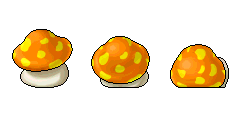
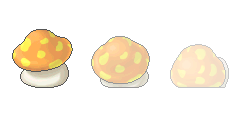
- Added HPs and a way to be damaged to all characters
- Also fixed some die.png spritesheets to have gradually transparency.
- Also removed the ExplodesFromEnemy class because that effect will be implemented in a different class

diff --git a/project/core/src/com/survivors/mygame/CharacterData.java b/project/core/src/com/survivors/mygame/CharacterData.java
@@ -28,6 +28,7 @@ public class CharacterData {
     private int dimensionX;
     private int dimensionY;
     private String internalName = "";
+    private int maxHp;
     private int totalFrameCount;
     private int dyingAnimationStartFrameIndex;
     private int dyingAnimationEndFrameIndex;
@@ -57,6 +58,7 @@ public class CharacterData {
                 this.originY = 62;
                 this.dimensionX = 188;
                 this.dimensionY = 86;
+                this.maxHp = 1000;
                 break;
             case PLANT:
                 this.internalName = "plant";
@@ -67,6 +69,7 @@ public class CharacterData {
                 this.originY = 103;
                 this.dimensionX = 252;
                 this.dimensionY = 134;
+                this.maxHp = 1800;
                 break;
             case STUMP:
                 this.internalName = "stump";
@@ -77,6 +80,7 @@ public class CharacterData {
                 this.originY = 130;
                 this.dimensionX = 126;
                 this.dimensionY = 167;
+                this.maxHp = 7000;
                 break;
             case PIG:
                 this.internalName = "pig";
@@ -87,6 +91,7 @@ public class CharacterData {
                 this.originY = 74;
                 this.dimensionX = 96;
                 this.dimensionY = 108;
+                this.maxHp = 3200;
                 break;
             case ORANGE_MUSHROOM:
                 this.internalName = "orange mushroom";
@@ -97,6 +102,7 @@ public class CharacterData {
                 this.originY = 88;
                 this.dimensionX = 81;
                 this.dimensionY = 121;
+                this.maxHp = 5500;
                 break;
             case BLUE_MUSHROOM:
                 this.internalName = "blue mushroom";
@@ -107,6 +113,7 @@ public class CharacterData {
                 this.originY = 126;
                 this.dimensionX = 242;
                 this.dimensionY = 194;
+                this.maxHp = 11000;
                 break;
             case ZOMBIE_MUSHROOM:
                 this.internalName = "zombie mushroom";
@@ -117,6 +124,7 @@ public class CharacterData {
                 this.originY = 106;
                 this.dimensionX = 80;
                 this.dimensionY = 157;
+                this.maxHp = 20000;
                 break;
             case HELMET_PENGUIN:
                 this.internalName = "helmet penguin";
@@ -127,6 +135,7 @@ public class CharacterData {
                 this.originY = 194;
                 this.dimensionX = 488;
                 this.dimensionY = 292;
+                this.maxHp = 40000;
                 break;
             case SPEAR_PENGUIN:
                 this.internalName = "spear penguin";
@@ -139,6 +148,7 @@ public class CharacterData {
                 this.originY = 150;
                 this.dimensionX = 494;
                 this.dimensionY = 236;
+                this.maxHp = 30000;
                 break;
             case SMALL_PENGUIN:
                 this.internalName = "small penguin";
@@ -149,6 +159,7 @@ public class CharacterData {
                 this.originY = 47;
                 this.dimensionX = 94;
                 this.dimensionY = 62;
+                this.maxHp = 6500;
                 break;
             // Nick: placeholder internal name for a void enemy
             case VOID:
@@ -292,7 +303,12 @@ public class CharacterData {
     public int getOriginY() {
         return originY;
     }
+
     public String getInternalName() {
         return internalName;
+    }
+
+    public int getMaxHp() {
+        return maxHp;
     }
 }

diff --git a/project/core/src/com/survivors/mygame/Character.java b/project/core/src/com/survivors/mygame/Character.java
@@ -34,6 +34,7 @@ public class Character extends Mobile {
     private int stateFrameStartIndex = 0;
     private int stateFrameEndIndex = 0;
     private int isFacingLeft = 1;
+    private int currentHp;
 
     /**
      * @param characterTypeName The type of the character that will be created. This is an enum: CharacterTypeName
@@ -44,6 +45,7 @@ public class Character extends Mobile {
         this.dataIndex = characterTypeName.ordinal();
         if (!ALL_CHARACTER_DATA.get(dataIndex).getInternalName().equals("void")) {
             this.makeBody(ALL_CHARACTER_DATA.get(dataIndex).getInternalName(), x, y, 0, world, physicsShapeCache);
+            this.currentHp = ALL_CHARACTER_DATA.get(dataIndex).getMaxHp();
         }
         this.setState(CharacterState.STANDING);
     }
@@ -143,5 +145,23 @@ public class Character extends Mobile {
 
     public void setDataIndex(int dataIndex) {
         this.dataIndex = dataIndex;
+    }
+
+    public void setCurrentHp(int currentHp) {
+        this.currentHp = currentHp;
+    }
+
+    /**
+     * Call this when a character should take damage. It also handles when they should die.
+     * Enemies have at least 1000 Hp. Essentially, it's just (normal Hp number)*100.
+     * Taking damage should always happen before animating, so that enemies with the DYING state can become DEAD.
+     *
+     * @param amountOfDamage the amount of damage the character will take.
+     */
+    public void takeDamage(int amountOfDamage) {
+        this.currentHp -= amountOfDamage;
+        if (this.currentHp <= 0) {
+            this.setState(CharacterState.DYING);
+        }
     }
 }

diff --git a/project/core/src/com/survivors/mygame/Enemy.java b/project/core/src/com/survivors/mygame/Enemy.java
@@ -35,6 +35,7 @@ public class Enemy extends Character {
      *       of a new instance */
     public void init(CharacterTypeName characterTypeName, float x, float y, int curWave, World world, PhysicsShapeCache physicsShapeCache) {
         this.setDataIndex(characterTypeName.ordinal());
+        this.setCurrentHp(ALL_CHARACTER_DATA.get(this.getDataIndex()).getMaxHp());
         this.makeBody(ALL_CHARACTER_DATA.get(this.getDataIndex()).getInternalName(), x, y, 0, world, physicsShapeCache);
         this.setState(CharacterState.STANDING);
         spawnedWave = curWave;

diff --git a/project/core/src/com/survivors/mygame/MyGame.java b/project/core/src/com/survivors/mygame/MyGame.java
@@ -378,6 +378,7 @@ public class MyGame extends ApplicationAdapter {
         testEnemy5.animate(batch, elapsedTime); // AND DRAW LIKE THIS BETWEEN THE batch.begin() and batch.end()
         testEnemy6.animate(batch, elapsedTime); // AND DRAW LIKE THIS BETWEEN THE batch.begin() and batch.end()
         for (Enemy enemy : enemies) {
+            //enemy.takeDamage(100);
             enemy.animate(batch, elapsedTime);
         }
         playerCharacter.animate(batch, elapsedTime);
